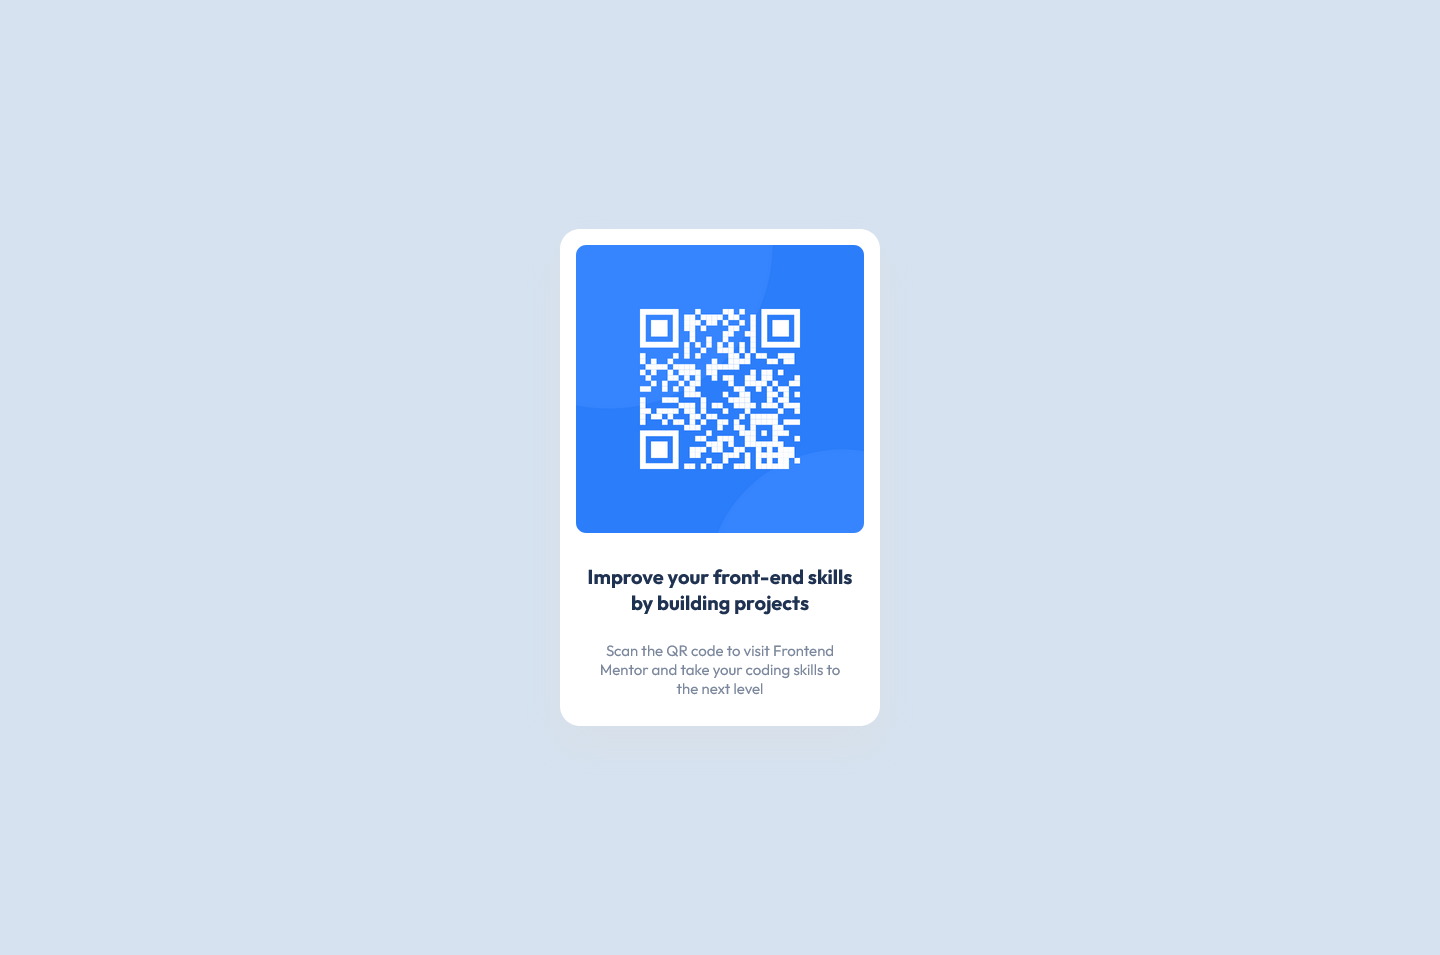
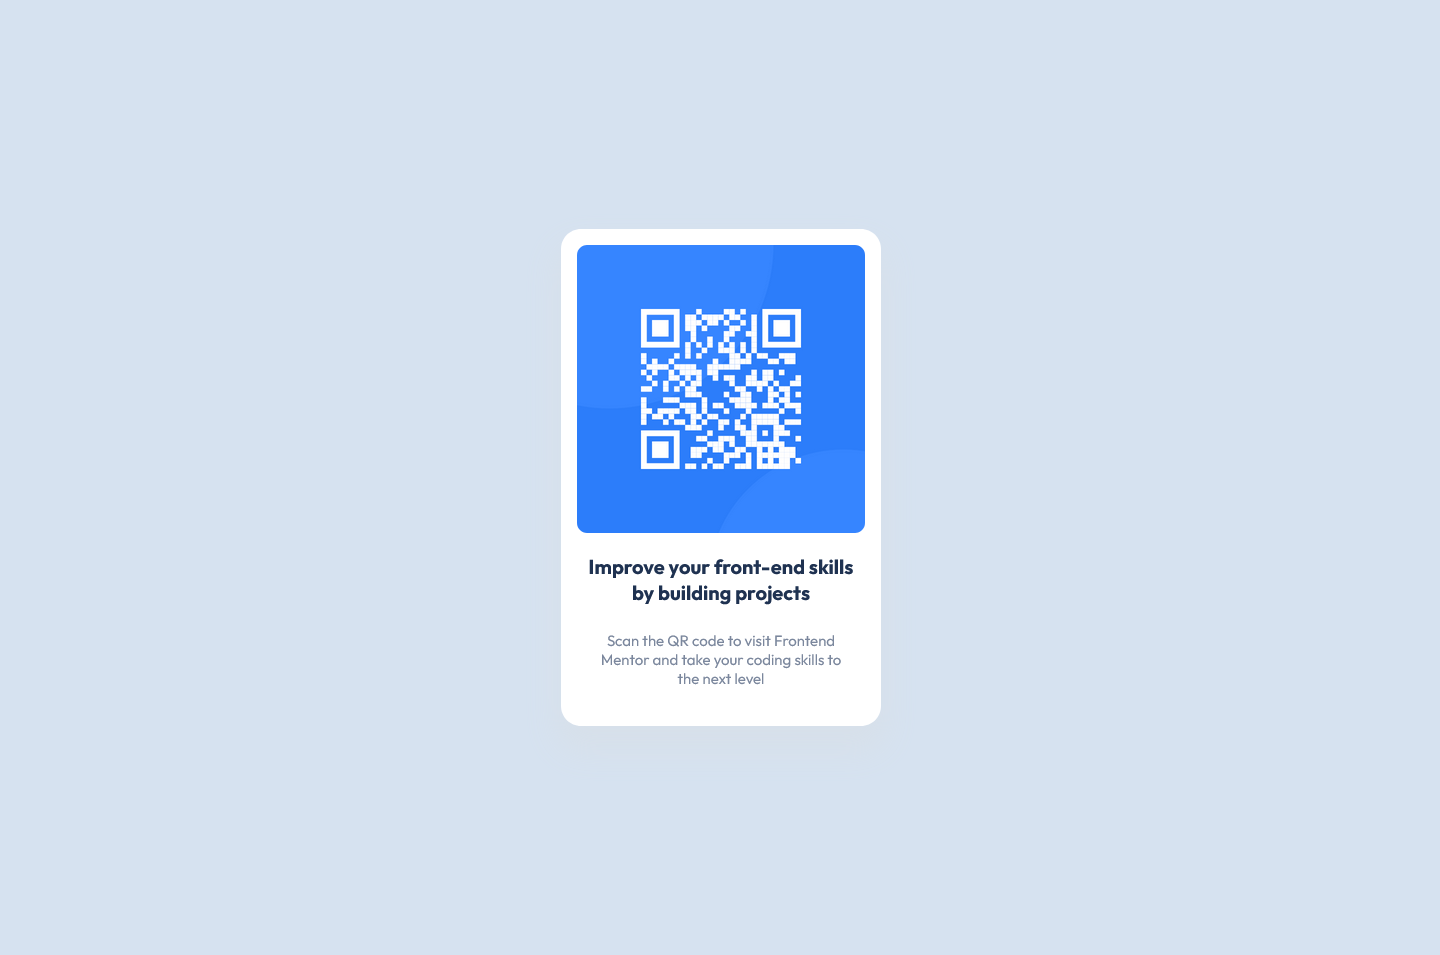
updated style.css

Changed region(s): [[0.4375, 0.334, 0.5625, 0.4859], [0.4062, 0.6681, 0.5938, 0.7288], [0.4062, 0.577, 0.5938, 0.6377]]

diff --git a/css/style.css b/css/style.css
@@ -41,7 +41,7 @@ main {
 img {
   width: 288px;
   border-radius: 10px;
-  margin-bottom: 31px;
+  margin-bottom: 21px;
 }
 
 h1 {
